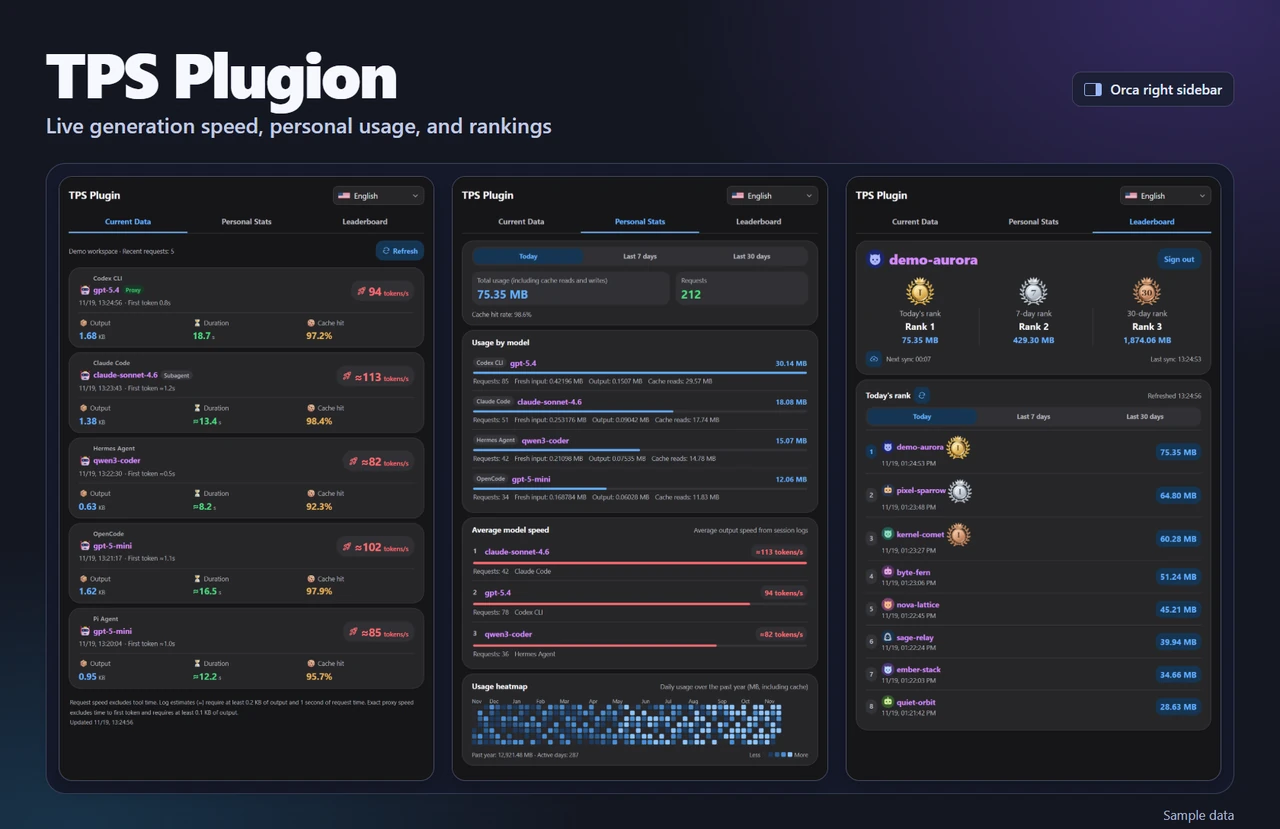
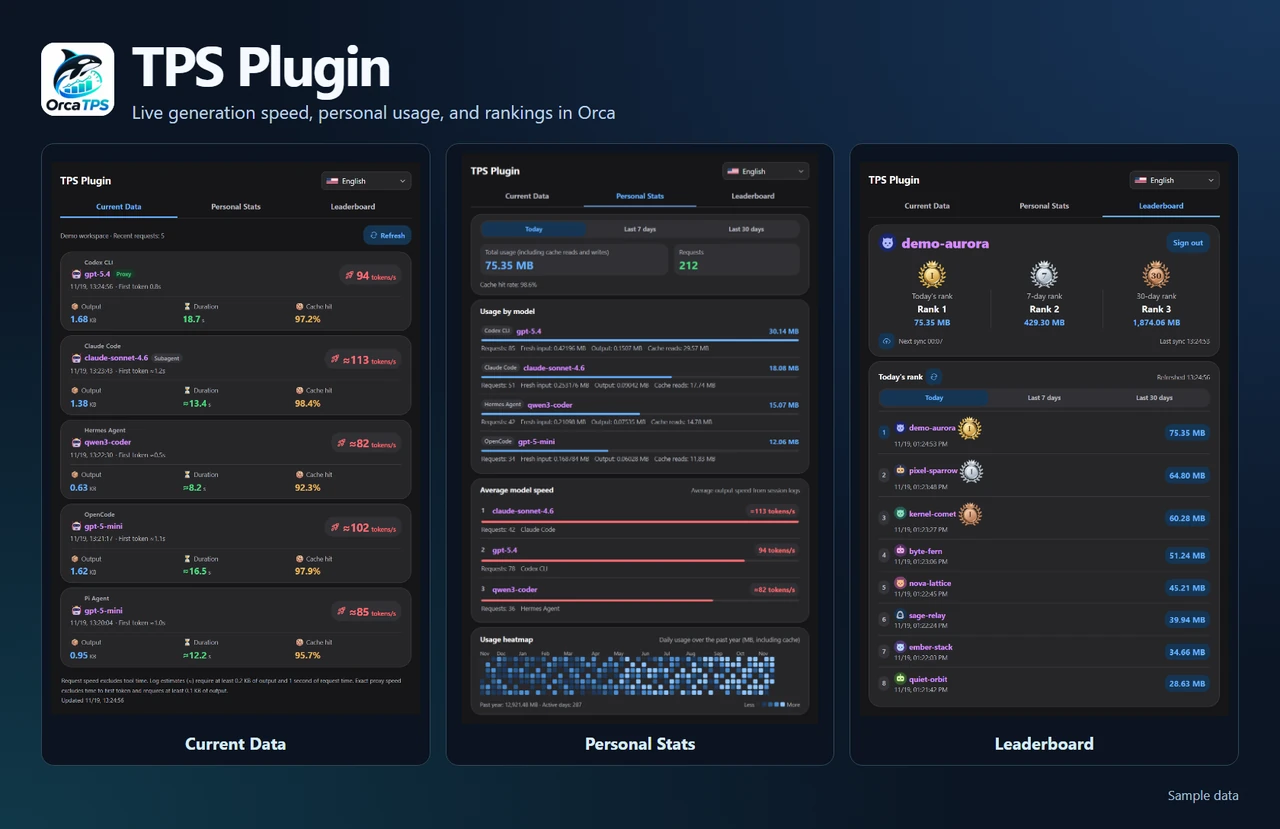
chore: prepare TPS Plugin 1.6.3

diff --git a/CHANGELOG.md b/CHANGELOG.md
@@ -16,6 +16,17 @@ All notable changes to this project will be documented in this file.
 - **Usage totals panel and yearly heatmap**: 当日战况, 近一周战况 and 近一月战况 at the top of the panel, showing total tokens (new input, output, cache writes and cache reads, matching CC Switch's real total), cache hit rate and request counts, with a per-agent and per-model breakdown. A GitHub-style heatmap of the last year shows daily totals on hover. Totals come from an incremental background index of local session files (Codex, Claude Code including subagents, Pi, OpenCode sessions, and Antigravity conversations). Each file is read once and re-read only when it changes (large, still-growing files at most every 10 minutes); Codex rollouts stream through the incremental parser; identical Codex rollouts copied into Orca's managed home are counted once.
 - **Model average speed ranking** (模型均速): inside the 用量统计 group, models are ranked by their mean per-request output speed (tokens/s) over the selected 当日 / 近一周 / 近一月 window, fastest first. Agents are merged per model; a model needs at least 5 requests in the window to be ranked, and models whose samples are mostly log estimates are marked `≈`. Speeds come from the same local session logs as the totals, so CC Switch proxy speeds are not included. Index units written by earlier versions are re-read once to fill in the speed counters.
 
+## [1.6.3] - 2026-11-19
+
+### Fixed
+
+- Personal statistics now store session totals in compressed groups to avoid exhausting Orca's storage keys. Migration can resume after a restart, and refreshes save only changed groups.
+
+### Changed
+
+- Corrected the name to TPS Plugin and updated the icon, README previews, and Orca directory screenshots.
+- Simplified installation to using the Orca plugin directory or loading a cloned folder in Orca.
+
 ## [1.3.0] - 2026-11-07
 
 ### Changed

diff --git a/README.md b/README.md
@@ -1,4 +1,4 @@
-# TPS Plugion
+# TPS Plugin
 
 **English** · **[简体中文](./README.zh-CN.md)** · **[Orca plugin directory](https://api.onorca.dev/plugins/jecyxyf/orca-tps-plugin)**
 
@@ -8,7 +8,7 @@
 
 ## 1. Project description
 
-TPS Plugion brings token usage and generation speed to the Orca sidebar. See what the current session is doing, review your usage over time, or join the leaderboard with a GitHub account.
+TPS Plugin brings token usage and generation speed to the Orca sidebar. See what the current session is doing, review your usage over time, or join the leaderboard with a GitHub account.
 
 The plugin supports local and SSH workspaces and remembers your choice of 10 interface languages. Conversation logs are read in place. The leaderboard receives usage totals.
 
@@ -18,7 +18,7 @@ Open **TPS Plugin** in Orca’s right sidebar to switch between **Current Data**
 
 <p align="center">
   <a href="./assets/readme/en/overview.png" title="View full-size screenshot">
-    <img src="./assets/readme/en/overview.webp" width="640" alt="TPS Plugion overview with all three tabs in English">
+    <img src="./assets/readme/en/overview.webp" width="640" alt="TPS Plugin overview with all three tabs in English">
   </a>
 </p>
 
@@ -43,6 +43,7 @@ Open **TPS Plugin** in Orca’s right sidebar to switch between **Current Data**
 - Review usage and request counts for today, the last 7 days, or the last 30 days.
 - Break down usage by tool and model, and compare average model generation speeds. Usage in MB includes new input, output, cache reads, and cache writes.
 - Use the annual heatmap to see daily activity over the past year.
+- Usage history is cached locally and restored when Orca restarts.
 
 <p align="center">
   <a href="./assets/readme/en/personal-stats.png" title="View full-size screenshot">

diff --git a/.agents/skills/docs-update/SKILL.md b/.agents/skills/docs-update/SKILL.md
@@ -1,6 +1,6 @@
 ---
 name: docs-update
-description: 在 TPS Plugion 的用户可见功能、界面、工具支持或安装方式变更并验证后，同步维护中英文 README 与 Orca 官方插件目录的介绍和配图。
+description: 在 TPS Plugin 的用户可见功能、界面、工具支持或安装方式变更并验证后，同步维护中英文 README 与 Orca 官方插件目录的介绍和配图。
 ---
 
 # 同步项目说明
